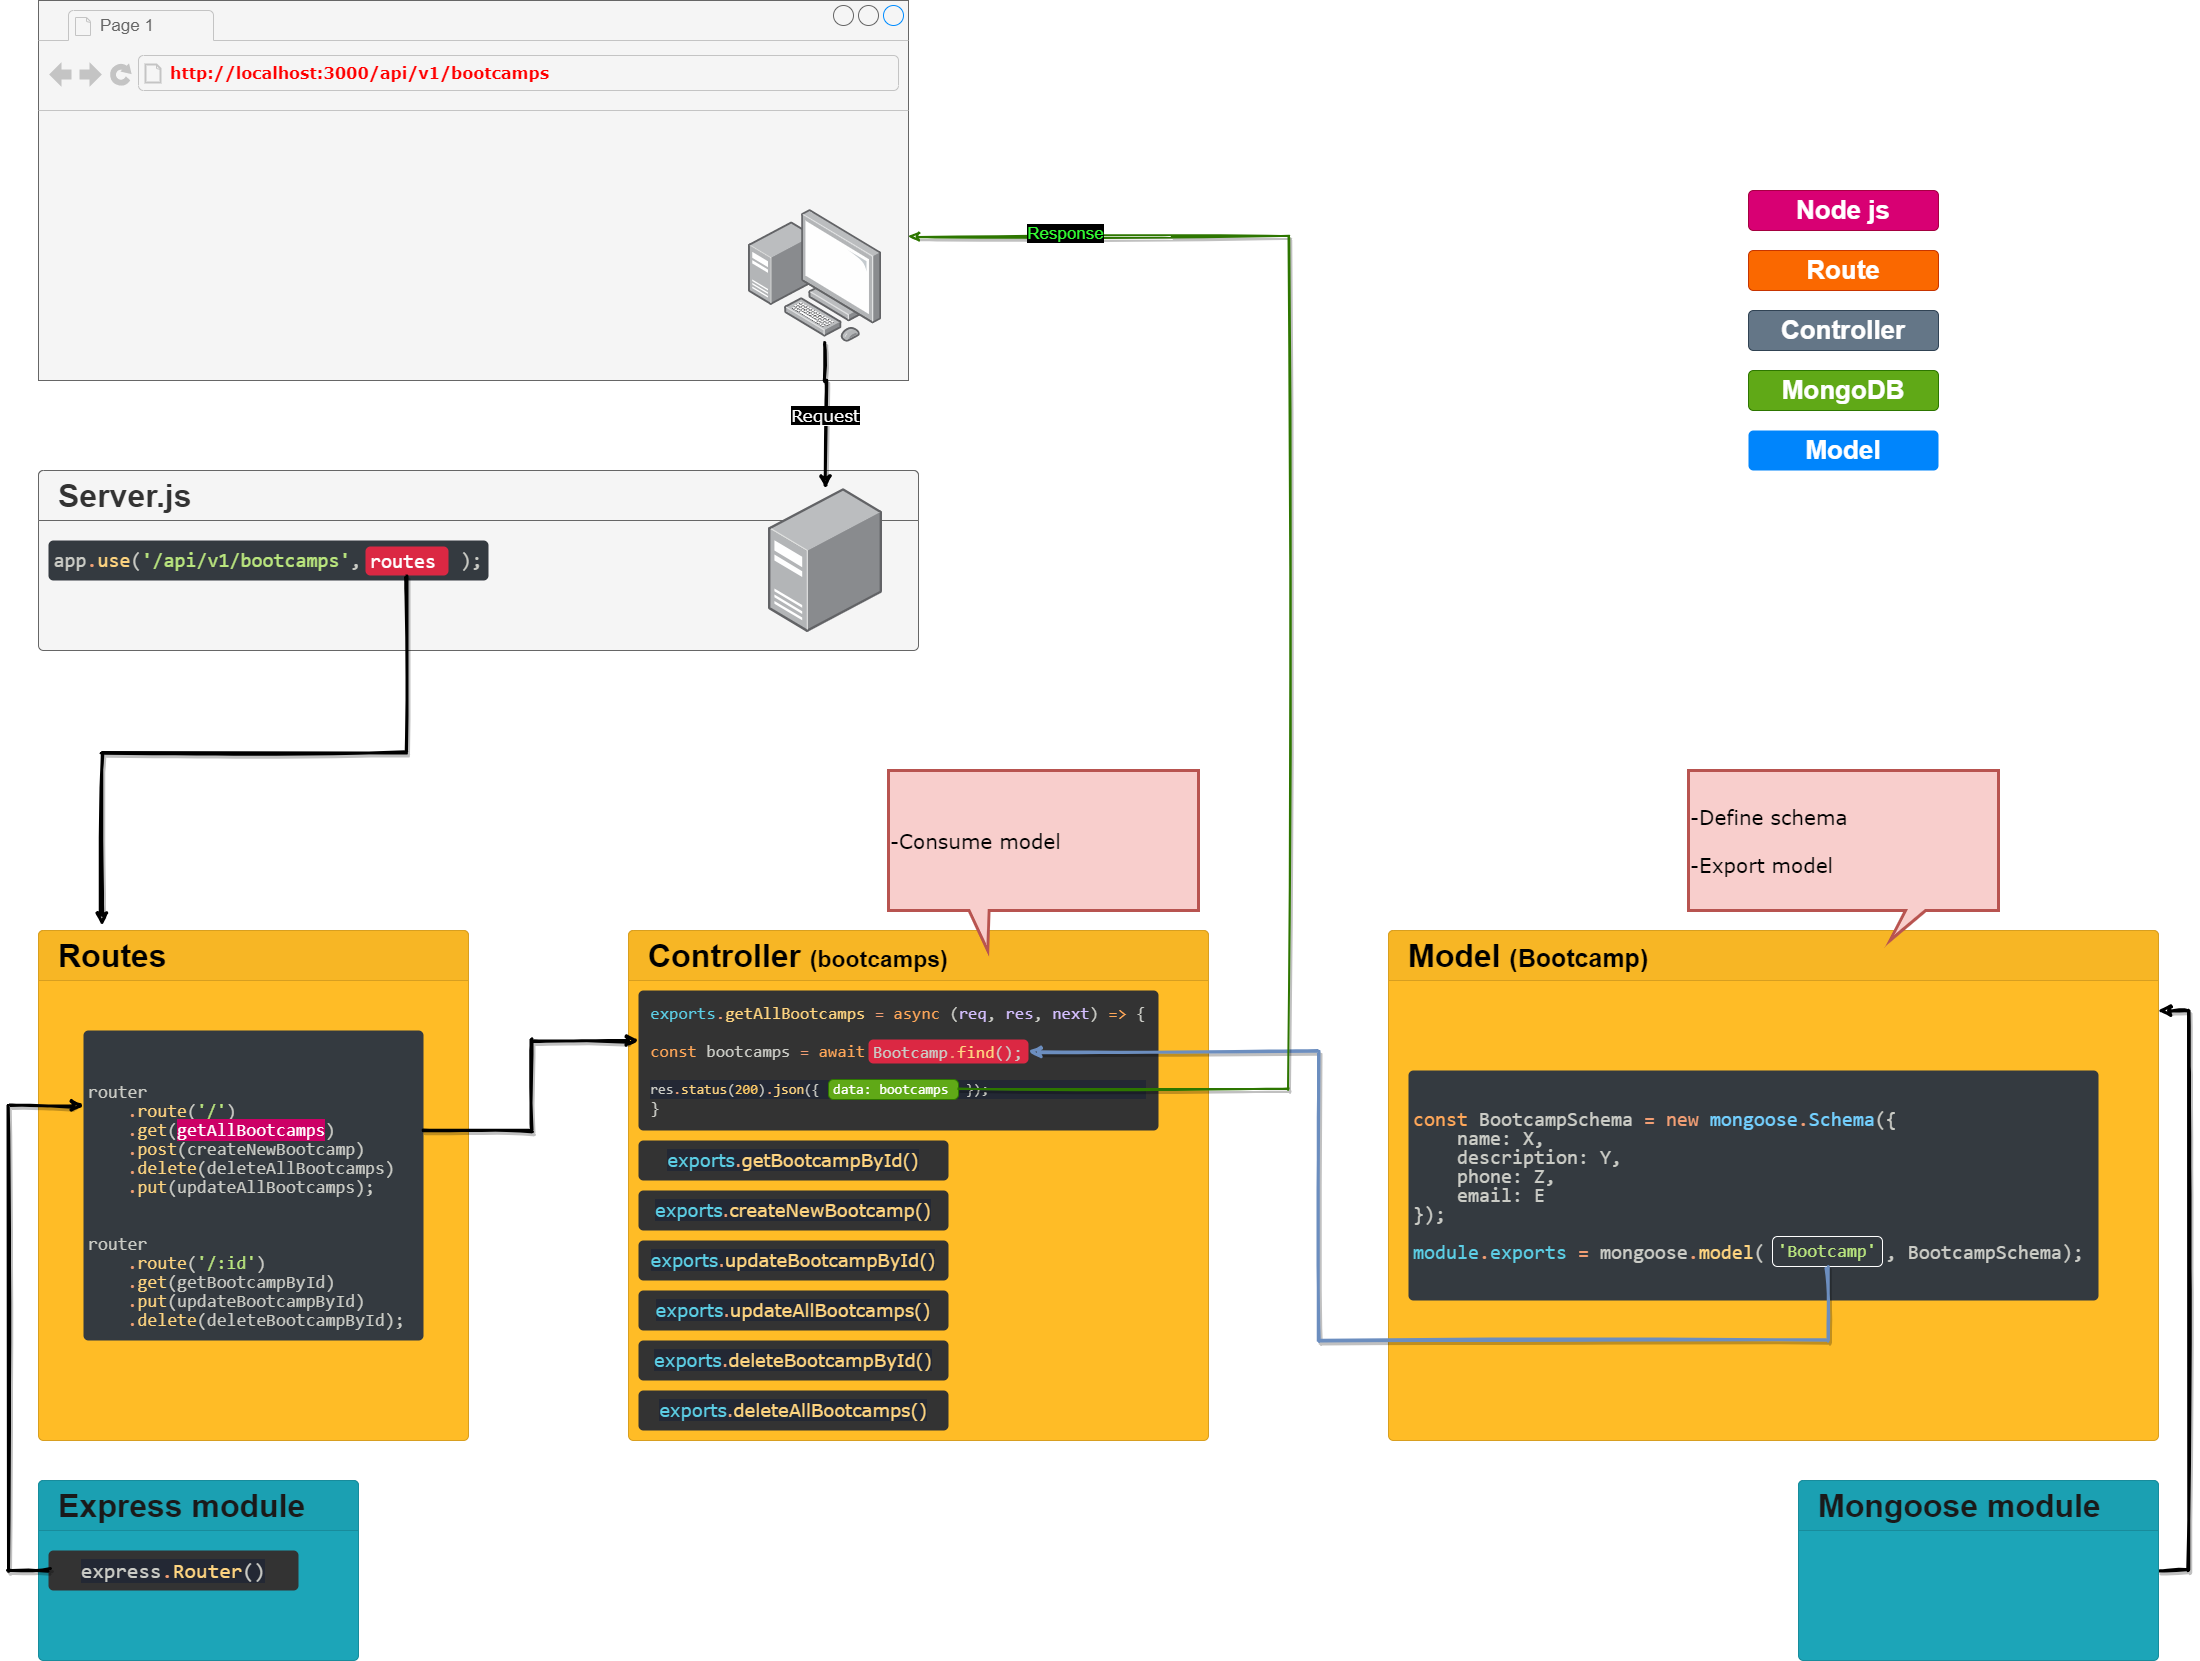
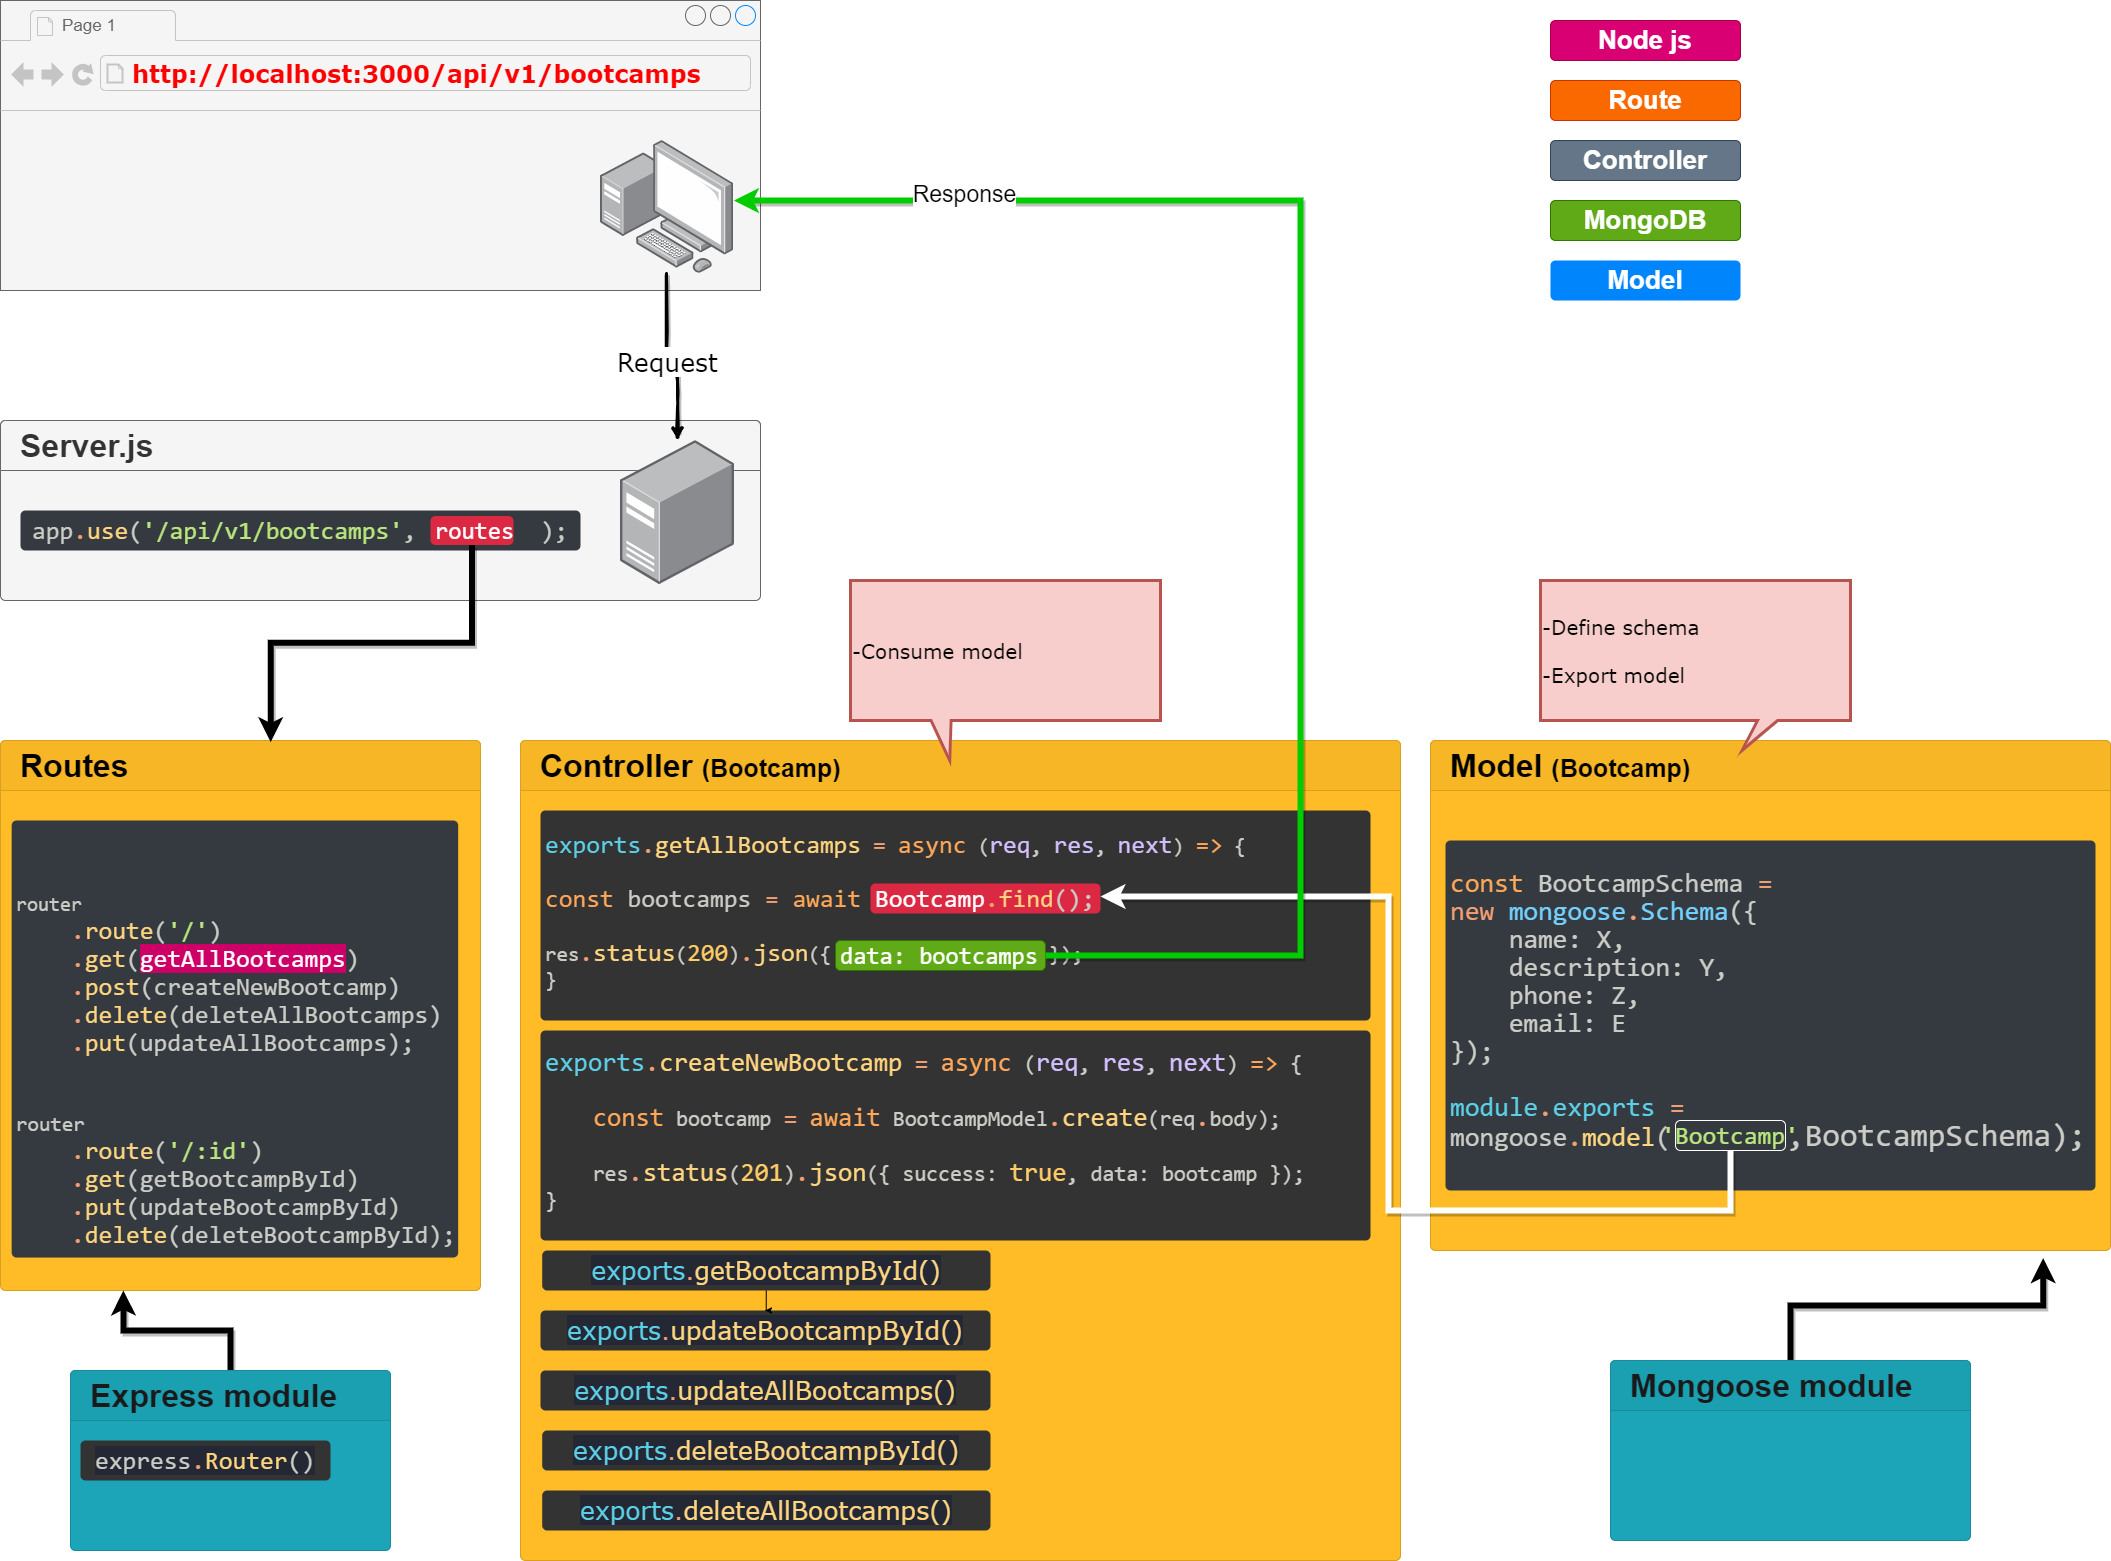
First mongoose middleware

diff --git a/controllers/bootcampController.js b/controllers/bootcampController.js
@@ -19,10 +19,10 @@ exports.getBootcampById = asyncHandler(async (req, res, next) => {
 });
 
 
-exports.createNewBootcamp = asyncHandler(async (req, res, next) => {
+exports.createNewBootcamp = async (req, res, next) => {
     const bootcamp = await BootcampModel.create(req.body);
     res.status(201).json({ success: true, data: bootcamp });
-});
+};
 
 exports.resetData = asyncHandler(async (req, res, next) => {
     const data = [{ "name": "Devworks Bootcamp", "description": "Devworks is a full stack JavaScript Bootcamp located in the heart of Boston that focuses on the technologies you need to get a high paying job as a web developer", "website": "https://devworks.com", "phone": "(111) 111-1111", "email": "enroll@devworks.com", "address": "233 Bay State Rd Boston MA 02215", "careers": ["Web Development", "UI/UX", "Business"], "housing": true, "jobAssistance": true, "jobGuarantee": false, "acceptGi": true }, { "name": "ModernTech Bootcamp", "description": "ModernTech has one goal, and that is to make you a rockstar developer and/or designer with a six figure salary. We teach both development and UI/UX", "website": "https://moderntech.com", "phone": "(222) 222-2222", "email": "enroll@moderntech.com", "address": "220 Pawtucket St, Lowell, MA 01854", "careers": ["Web Development", "UI/UX", "Mobile Development"], "housing": false, "jobAssistance": true, "jobGuarantee": false, "acceptGi": true }, { "name": "Codemasters", "description": "Is coding your passion? Codemasters will give you the skills and the tools to become the best developer possible. We specialize in full stack web development and data science", "website": "https://codemasters.com", "phone": "(333) 333-3333", "email": "enroll@codemasters.com", "address": "85 South Prospect Street Burlington VT 05405", "careers": ["Web Development", "Data Science", "Business"], "housing": false, "jobAssistance": false, "jobGuarantee": false, "acceptGi": false }, { "name": "Devcentral Bootcamp", "description": "Is coding your passion? Codemasters will give you the skills and the tools to become the best developer possible. We specialize in front end and full stack web development", "website": "https://devcentral.com", "phone": "(444) 444-4444", "email": "enroll@devcentral.com", "address": "45 Upper College Rd Kingston RI 02881", "careers": ["Mobile Development", "Web Development", "Data Science", "Business"], "housing": false, "jobAssistance": true, "jobGuarantee": true, "acceptGi": true }];

diff --git a/models/Bootcamp.js b/models/Bootcamp.js
@@ -1,6 +1,7 @@
 "use strict";
 
 const mongoose = require('mongoose');
+const slugify = require('slugify');
 
 const BootcampSchema = new mongoose.Schema({
     name: {
@@ -103,5 +104,22 @@ const BootcampSchema = new mongoose.Schema({
         default: Date.now
     }
 });
+
+//regular function instead of arrow function
+//arrow functions handle 'this' keyword differently
+BootcampSchema.pre('save', function (next) {
+    this.slug = slugify(this.name, { lower: true });
+
+    //console.log('before next');
+    //return next(); //return next(); will make sure the rest of this function doesn't run
+    next();
+    //console.log('after next');
+});
+
+//async/ await model
+// BootcampSchema.pre('save', async function () {
+//     this.slug = await slugify(this.name, { lower: true });
+//     console.log('test');
+// });
 
 module.exports = mongoose.model('Bootcamp', BootcampSchema);

diff --git a/README.md b/README.md
@@ -23,6 +23,7 @@ A basic nodejs API endpoint with mongoDB
 - nodemon
 - dotenv
 - mongoose
+- 
 
 ## Basic commands to control development and production modes
 To control development and production modes, the **script** section in the **package.json** file has changed in this way:
@@ -204,5 +205,18 @@ Now we can catch errors with the `handleError()` function that explained above a
 
 
 
-## Mongoose middleware
-https://mongoosejs.com/docs/middleware.html
+## Mongoose middleware (pre and post hooks)
+https://mongoosejs.com/docs/middleware.html  
+Middleware are functions which are passed control during execution of asynchronous functions. (middleware is specified on the schema level)  
+Mongoose has 4 types of middleware:
+- **Document middleware** (validate, save, remove, updateOne, deleteOne,init)             
+- **Model middleware** (insertMany)
+- **Aggregate middleware** (aggregate)
+- **Query middleware** (count, deleteMany, deleteOne, find, findOne, findOneAndDelete, findOneAndRemove, findOneAndUpdate, remove, update, updateOne, updateMany)
+
+All middleware types support **pre** and **post** hooks.  
+Middleware are useful for atomizing model logic. Here are some other ideas:
+- complex validation
+- removing dependent documents (removing a user removes all his blogposts)
+- asynchronous defaults
+- asynchronous tasks that a certain action triggers
